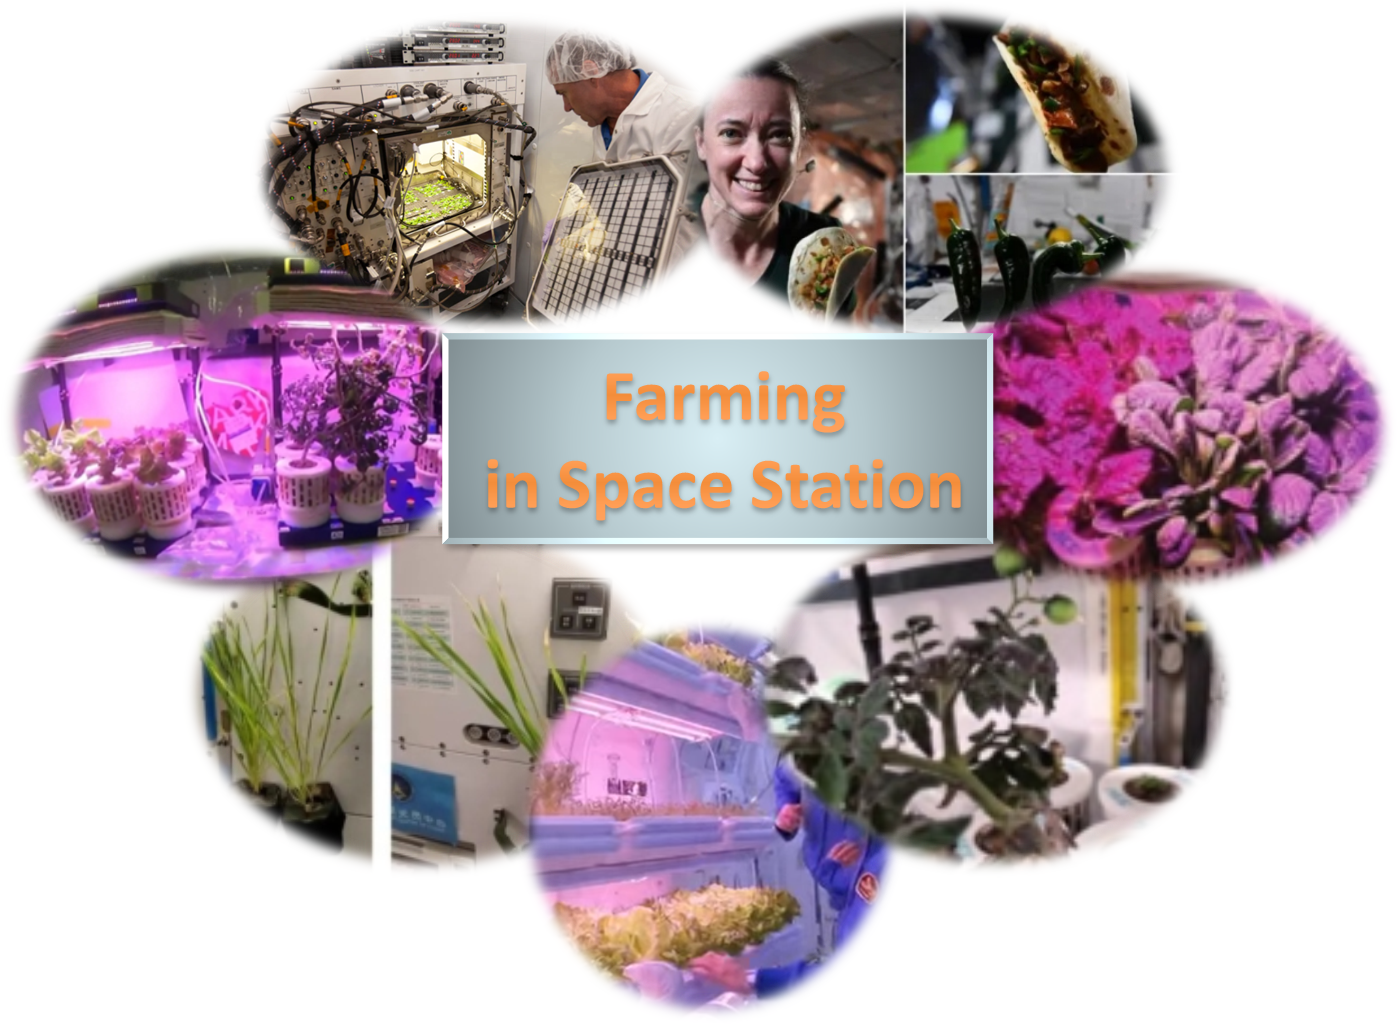
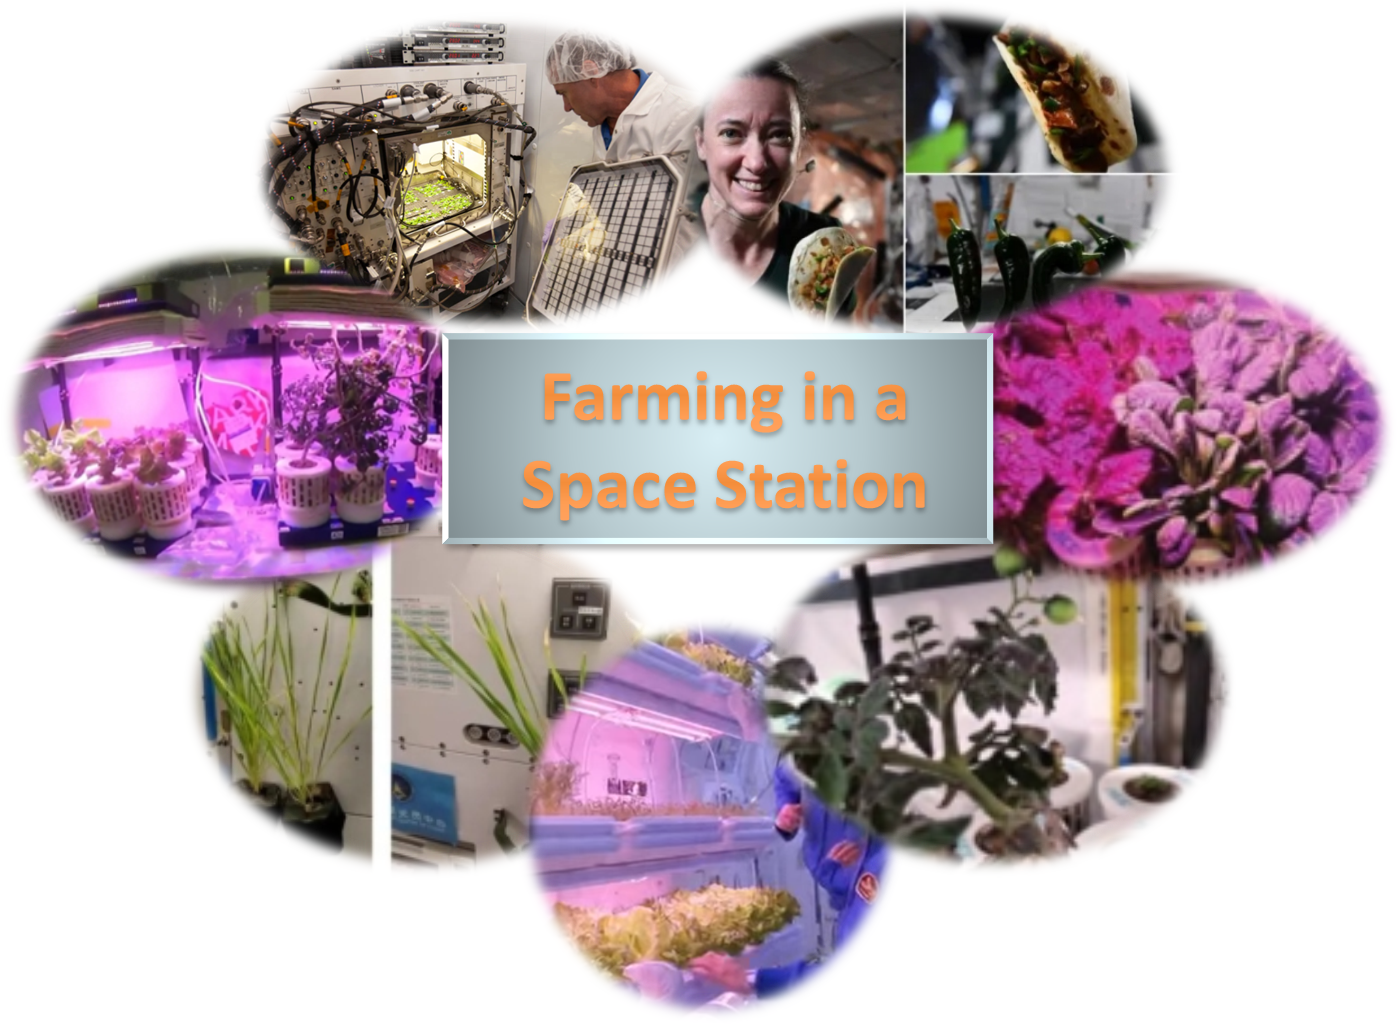
reduce top pics of each page

Changed region(s): [[0.3383, 0.3434, 0.7074, 0.5307]]

diff --git a/html/GMO.html b/html/GMO.html
@@ -30,6 +30,8 @@
             cursor: pointer;
             transition: transform 0.2s ease;
             z-index: 1000;
+            display: inline-block;
+            line-height: 0;
         }
         
         .back-button img {
@@ -50,13 +52,13 @@
         }
         
         .title-image {
-            max-width: 80%;
+            max-width: 54%;
             height: auto;
             margin-bottom: 30px;
         }
         
         .main-image {
-            max-width: 80%;
+            max-width: 54%;
             height: auto;
             margin-bottom: 30px;
         }

diff --git a/html/GRB.html b/html/GRB.html
@@ -30,6 +30,8 @@
             cursor: pointer;
             transition: transform 0.2s ease;
             z-index: 1000;
+            display: inline-block;
+            line-height: 0;
         }
         
         .back-button img {
@@ -50,13 +52,13 @@
         }
         
         .title-image {
-            max-width: 80%;
+            max-width: 54%;
             height: auto;
             margin-bottom: 30px;
         }
         
         .main-image {
-            max-width: 80%;
+            max-width: 54%;
             height: auto;
             margin-bottom: 30px;
         }

diff --git a/html/History.html b/html/History.html
@@ -30,6 +30,8 @@
             cursor: pointer;
             transition: transform 0.2s ease;
             z-index: 1000;
+            display: inline-block;
+            line-height: 0;
         }
         
         .back-button img {
@@ -50,13 +52,13 @@
         }
         
         .title-image {
-            max-width: 80%;
+            max-width: 54%;
             height: auto;
             margin-bottom: 30px;
         }
         
         .main-image {
-            max-width: 80%;
+            max-width: 54%;
             height: auto;
             margin-bottom: 30px;
         }

diff --git a/html/Regeneration.html b/html/Regeneration.html
@@ -30,6 +30,8 @@
             cursor: pointer;
             transition: transform 0.2s ease;
             z-index: 1000;
+            display: inline-block;
+            line-height: 0;
         }
         
         .back-button img {
@@ -50,13 +52,13 @@
         }
         
         .title-image {
-            max-width: 80%;
+            max-width: 54%;
             height: auto;
             margin-bottom: 30px;
         }
         
         .main-image {
-            max-width: 80%;
+            max-width: 54%;
             height: auto;
             margin-bottom: 30px;
         }

diff --git a/html/Current_space_farm.html b/html/Current_space_farm.html
@@ -30,6 +30,8 @@
             cursor: pointer;
             transition: transform 0.2s ease;
             z-index: 1000;
+            display: inline-block;
+            line-height: 0;
         }
         
         .back-button img {
@@ -50,7 +52,7 @@
         }
         
         .main-image {
-            max-width: 80%;
+            max-width: 54%;
             height: auto;
             margin-bottom: 30px;
         }
